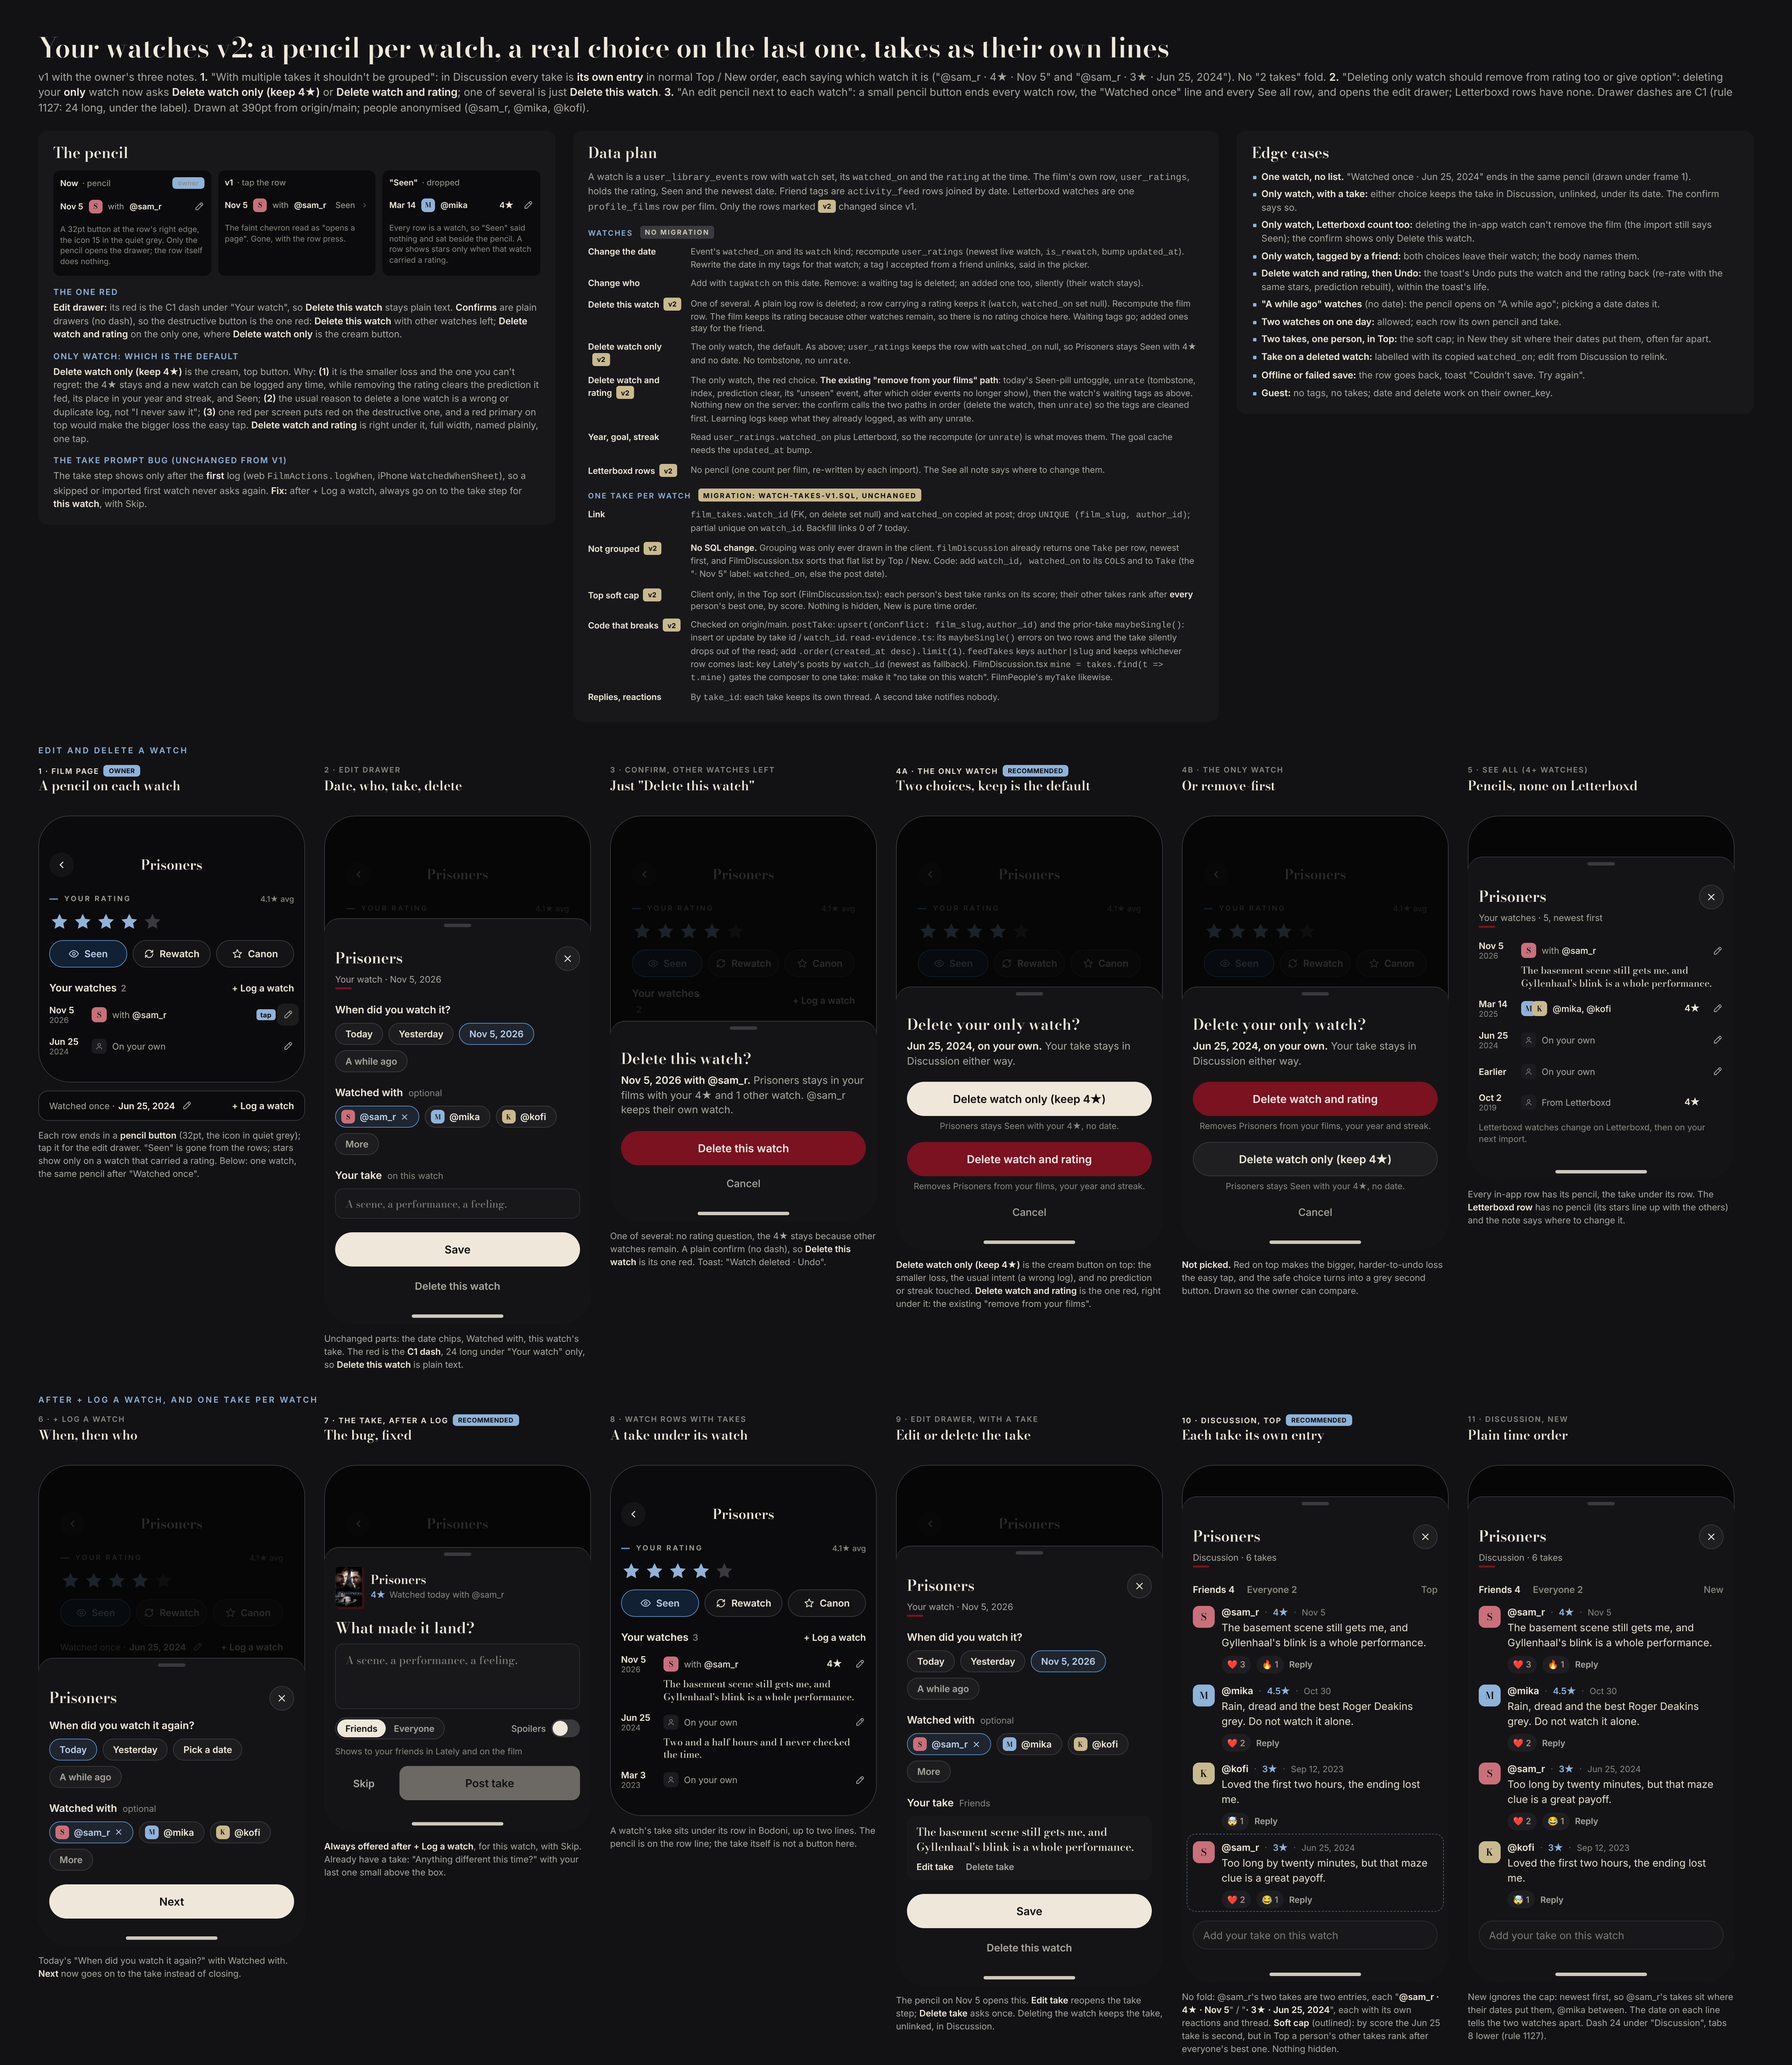
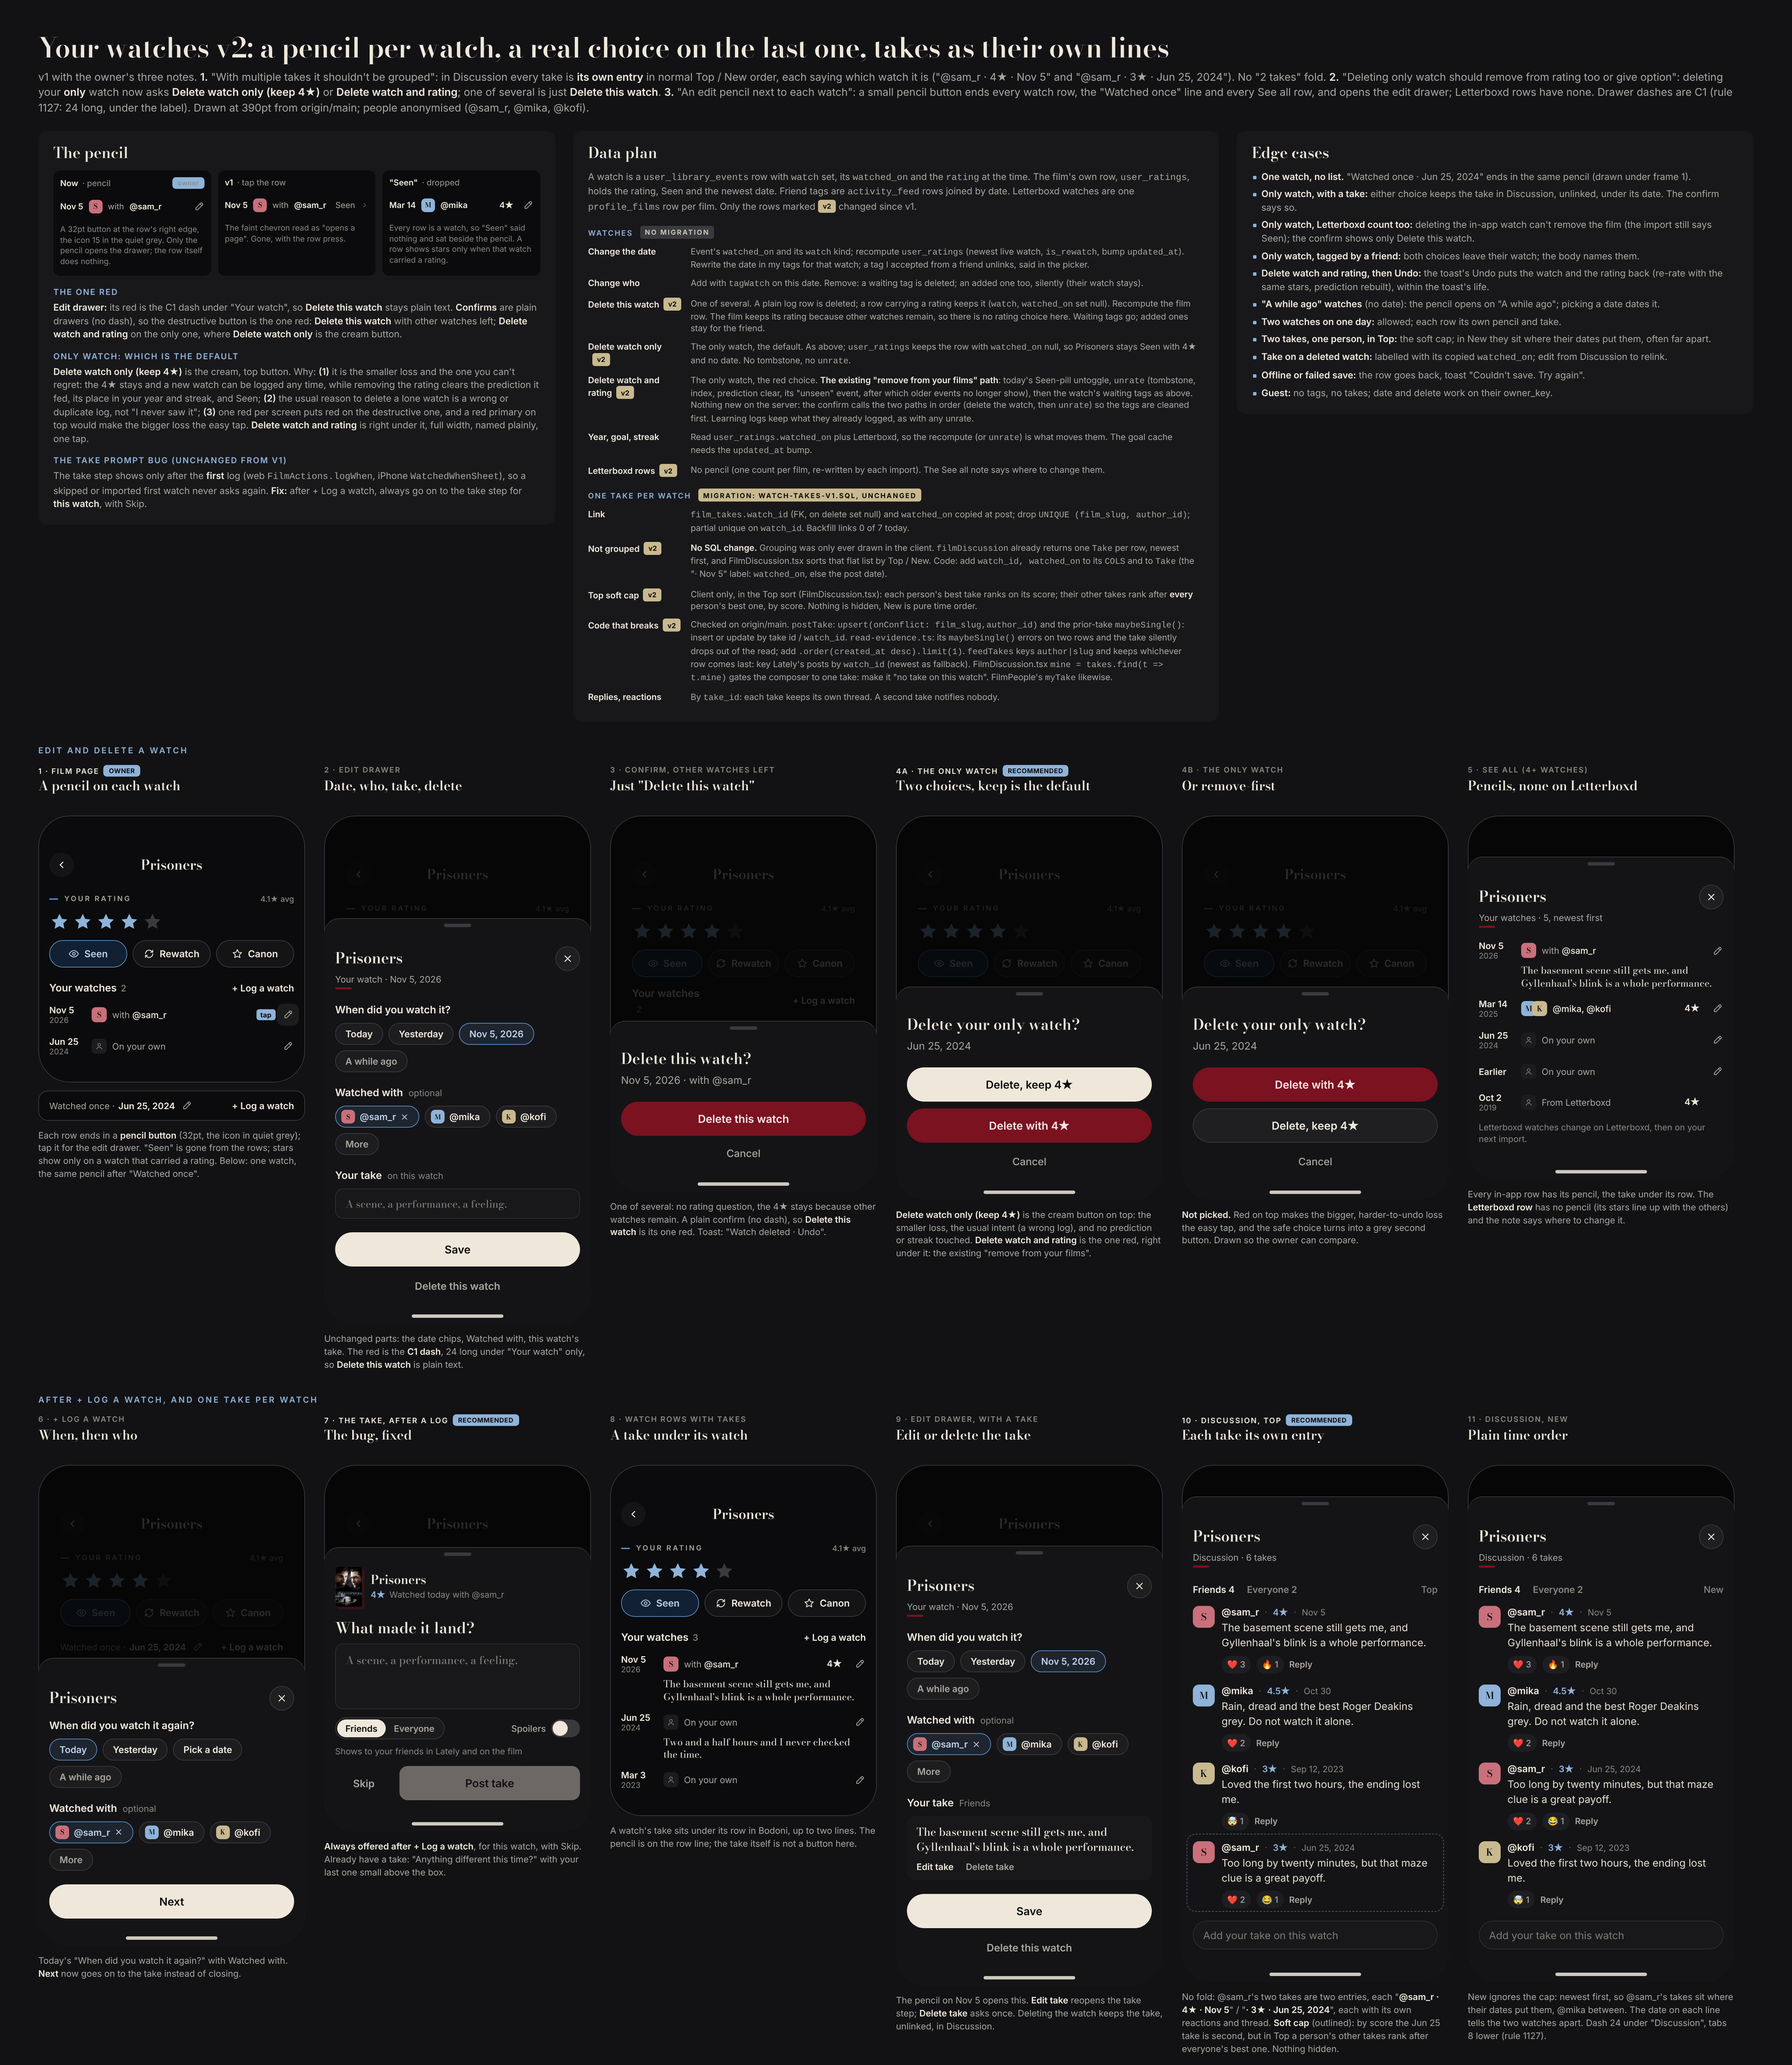
Watch edit v2: shorter delete confirms (date line only; Delete, keep 4★ / Delete with 4★)
Claude-Session: https://claude.ai/code/session_013WRDCFXH8nihP92apJAVW7

Changed region(s): [[0.3422, 0.4983, 0.8088, 0.6229]]

diff --git a/mockups/journeys/watch-edit-v2.html b/mockups/journeys/watch-edit-v2.html
@@ -281,11 +281,11 @@ ${WHEN('Nov 5, 2026')}
 ${WHO(true)}
 <div class="pad"><div class="ql">Your take<small>on this watch</small></div><div class="addt">A scene, a performance, a feeling.</div></div>
 <div class="foot"><div class="btn">Save</div><div class="del">Delete this watch</div></div>`);
-const F3=DR(300,`<div class="cf"><h3>Delete this watch?</h3><p><b>Nov 5, 2026 with @sam_r.</b> Prisoners stays in your films with your 4★ and 1 other watch. @sam_r keeps their own watch.</p><div class="btn red">Delete this watch</div><div class="quiet">Cancel</div></div>`);
+const F3=DR(300,`<div class="cf"><h3>Delete this watch?</h3><p>Nov 5, 2026 · with @sam_r</p><div class="btn red">Delete this watch</div><div class="quiet">Cancel</div></div>`);
 const ONEPAGE=PAGE('',0,4,true);
-const F4=(rec)=>DR(250,`<div class="cf"><h3>Delete your only watch?</h3><p><b>Jun 25, 2024, on your own.</b> Your take stays in Discussion either way.</p>${rec
- ?`<div class="btn">Delete watch only (keep 4★)</div><div class="hint">Prisoners stays Seen with your 4★, no date.</div><div class="btn red">Delete watch and rating</div><div class="hint">Removes Prisoners from your films, your year and streak.</div>`
- :`<div class="btn red">Delete watch and rating</div><div class="hint">Removes Prisoners from your films, your year and streak.</div><div class="btn" style="margin-top:14px;background:rgba(255,255,255,.05);border:1px solid #3A3A3E;color:#EFE8DA">Delete watch only (keep 4★)</div><div class="hint">Prisoners stays Seen with your 4★, no date.</div>`}<div class="quiet" style="margin-top:6px">Cancel</div></div>`,ONEPAGE);
+const F4=(rec)=>DR(250,`<div class="cf"><h3>Delete your only watch?</h3><p>Jun 25, 2024</p>${rec
+ ?`<div class="btn">Delete, keep 4★</div><div class="btn red" style="margin-top:10px">Delete with 4★</div>`
+ :`<div class="btn red">Delete with 4★</div><div class="btn" style="margin-top:10px;background:rgba(255,255,255,.05);border:1px solid #3A3A3E;color:#EFE8DA">Delete, keep 4★</div>`}<div class="quiet" style="margin-top:6px">Cancel</div></div>`,ONEPAGE);
 const F5=`<div class="ph" style="border-radius:46px"><div class="pg" style="height:60px;opacity:1"></div><div class="dr">${HEAD('Prisoners','Your watches · 5, newest first')}
 <div class="pad" style="padding-top:10px">
 ${W('Nov 5','2026',WITH('@sam_r'),'',{take:'The basement scene still gets me, and Gyllenhaal\'s blink is a whole performance.'})}
